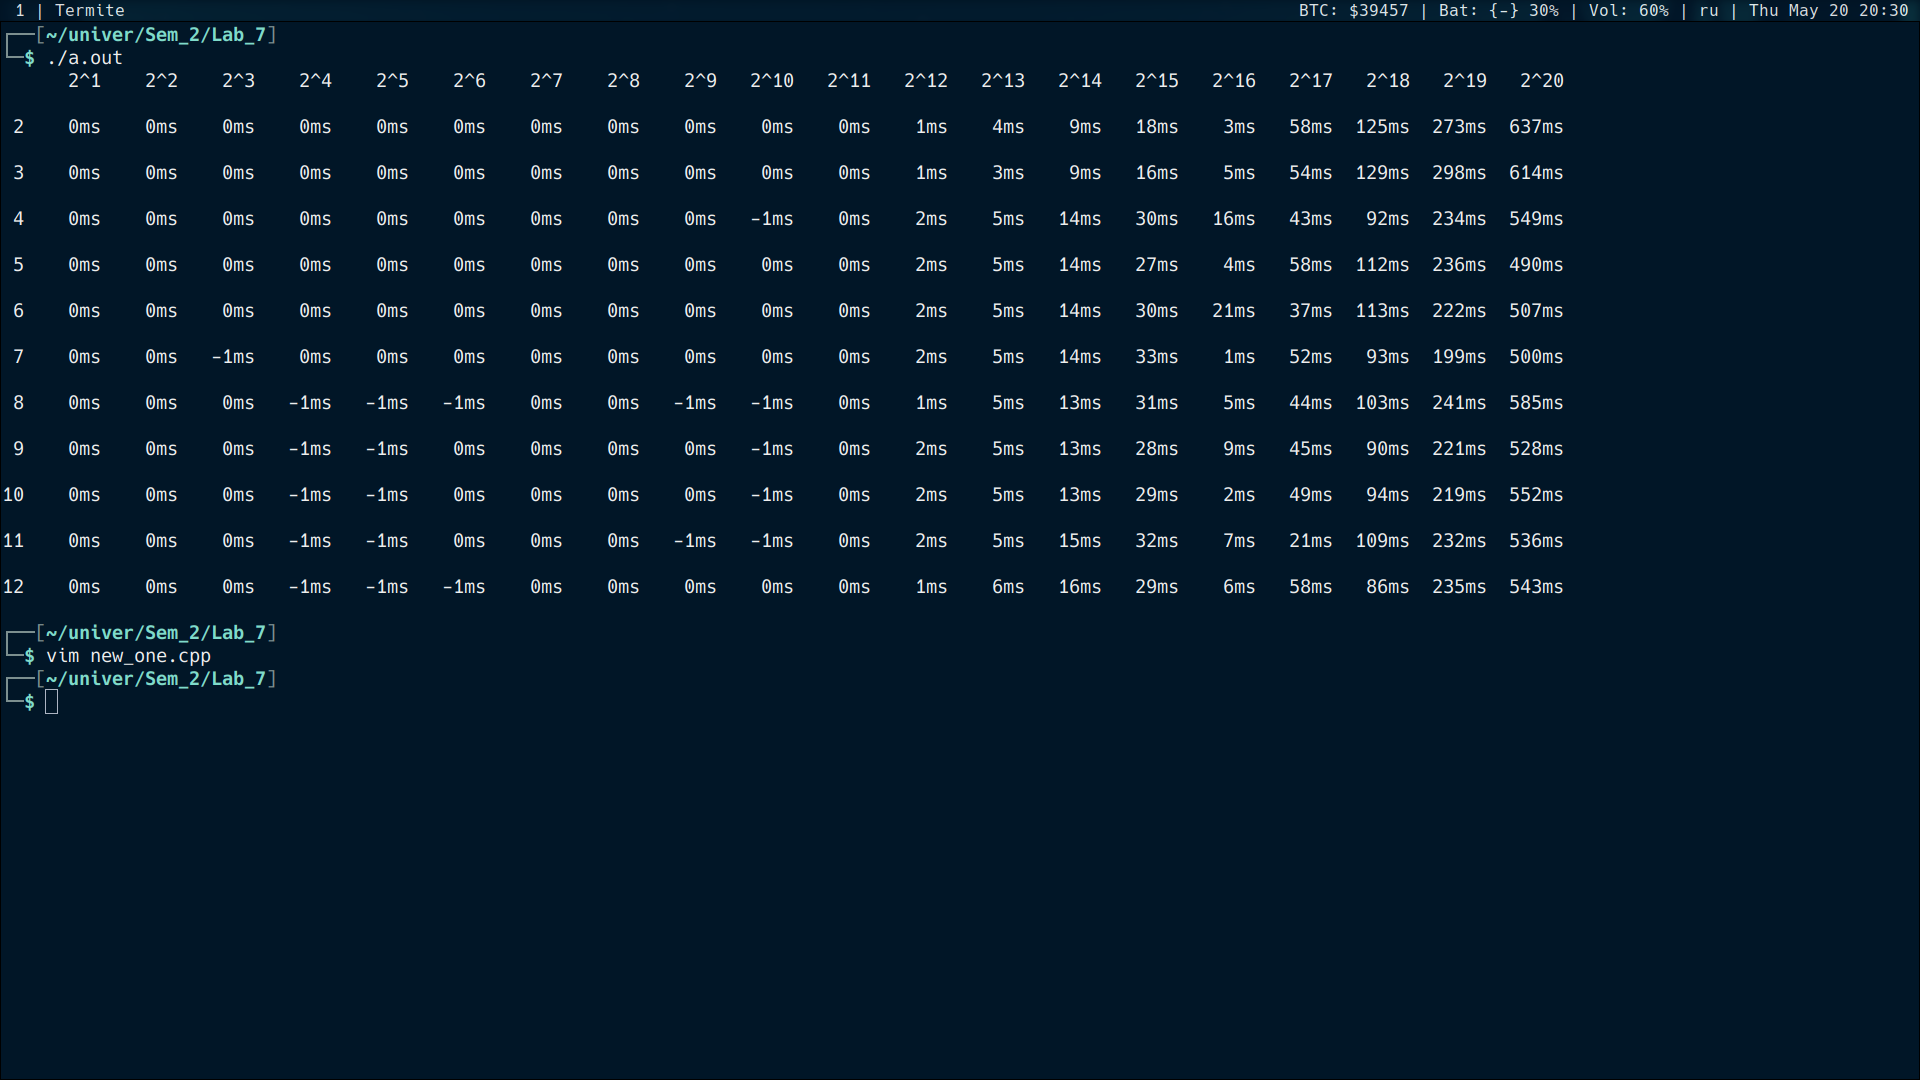
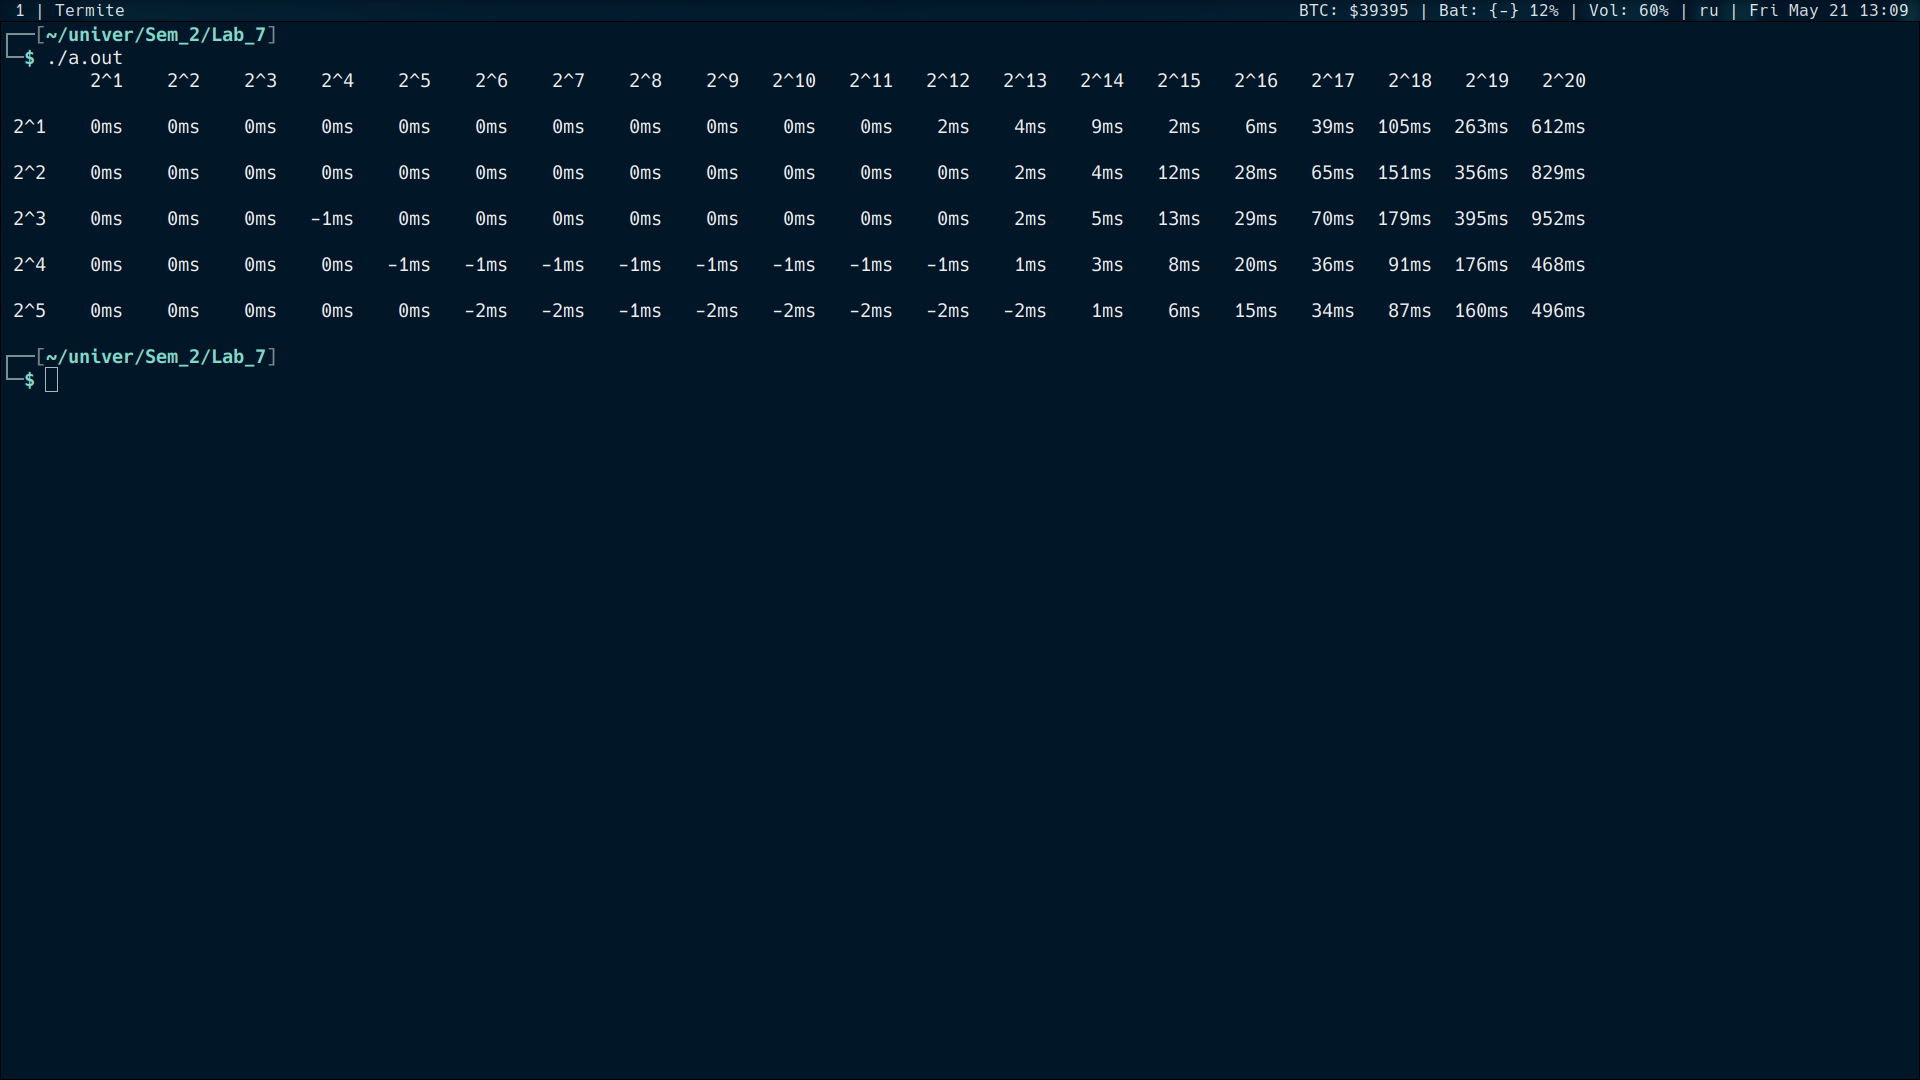
fix table

diff --git a/bitonic_sort.cpp b/bitonic_sort.cpp
@@ -138,7 +138,7 @@ namespace parallel
 
 void print_test_table ()
 {
-    std::cout << "  ";
+    std::cout << "    ";
     for (int i = 1; i < 10; i++) // num of elements in vec
         std::cout << std::setw(6) << "2^" << i;
     for (int i = 10; i < 21; i++)
@@ -146,16 +146,12 @@ void print_test_table ()
 
     std::cout << std::endl << std::endl;
 
-    for (int i = 2; i < 13; i++) // cpu has 12 threads
+    for (int i = 1; i < 6; i++) // cpu has 12 threads
     {
-        std::cout << std::setw(2) << i;
+        std::cout << std::setw(3) << "2^" << i;
         
         for (int j = 1; j < 21; j++)
         {
-            // different direcitions of sorting
-            bool dir;
-            (parallel::isEven(j)) ? (dir = true) : (dir = false);
-
             std::srand(100);
             size_t size = pow(2, j);
             std::vector<int> vec_1 (size);
@@ -163,7 +159,7 @@ void print_test_table ()
                 vec_1[i] = std::rand() % 1000;
 
             auto start_serial = std::chrono::steady_clock::now();
-            serial::bitonic_sort(vec_1, 0, vec_1.size(), dir);
+            serial::bitonic_sort(vec_1, 0, vec_1.size(), true);
             auto end_serial = std::chrono::steady_clock::now();
             auto serial = std::chrono::duration_cast<std::chrono::milliseconds>(end_serial - start_serial).count();
 
@@ -173,7 +169,7 @@ void print_test_table ()
                 vec_2[i] = std::rand() % 1000;
 
             auto start = std::chrono::steady_clock::now();
-            parallel::bitonic_sort<int> (vec_2, i, dir);
+            parallel::bitonic_sort<int> (vec_2, pow(2,i), true);
             auto end = std::chrono::steady_clock::now();
             auto parallel = std::chrono::duration_cast<std::chrono::milliseconds>(end - start).count();
 
@@ -201,7 +197,7 @@ int main ()
 {
     // Вывод: 
     //  при большом количестве элементов в векторе многопоточность работает быстрее
-    //  2 потока являются оптимальными при размере вектора до 2^20
+    //  8 потоков являются оптимальными при размере вектора от 2^15 (см. скриншот)
     // print_test_table();
 
     std::srand(std::time(0));
